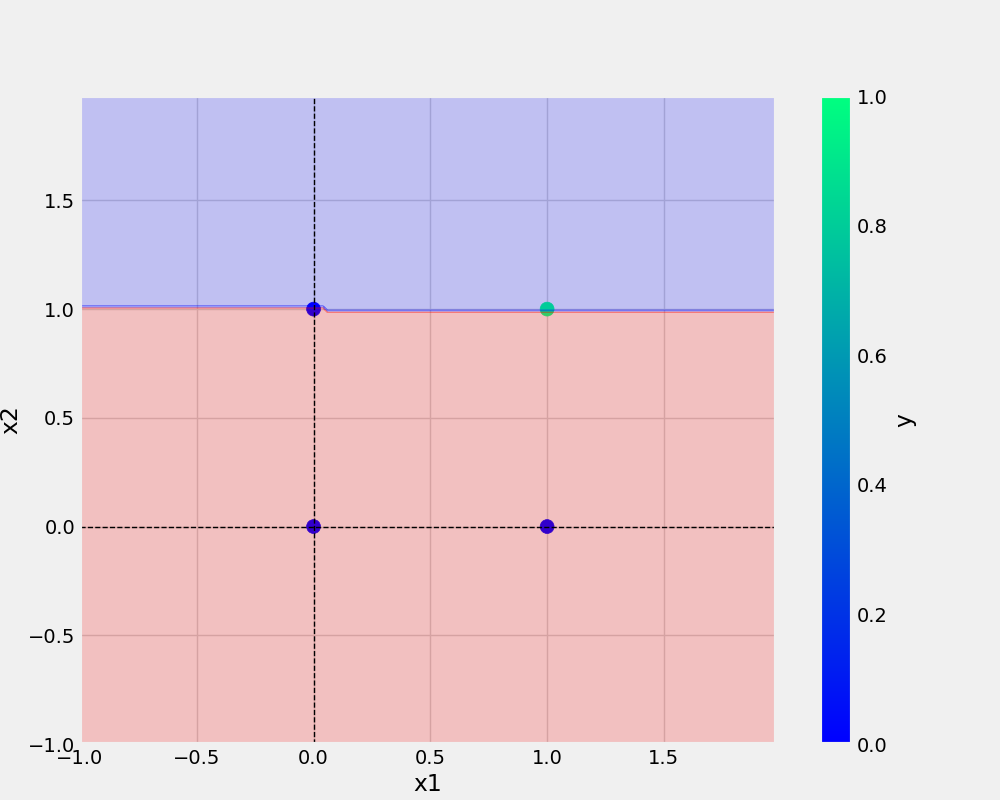
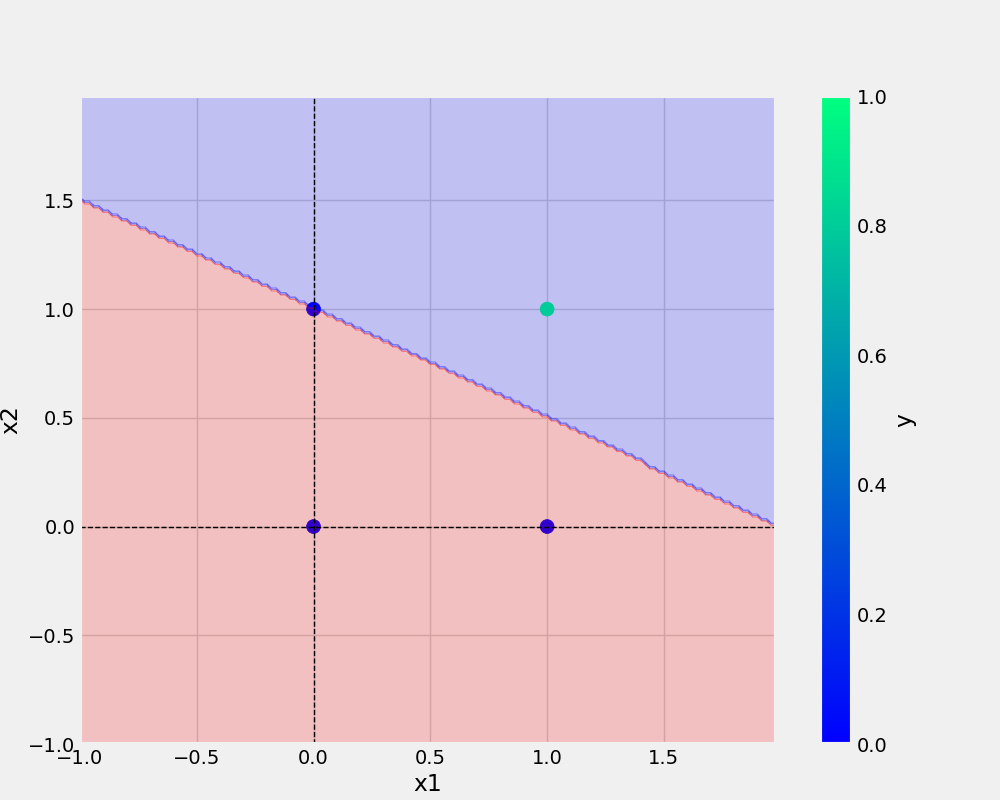
modularized code

Changed region(s): [[0.062, 0.25, 0.775, 0.6562]]

diff --git a/and.py b/and.py
@@ -3,22 +3,24 @@ from utils.all_utils import prepare_data, save_model, save_plot
 import pandas as pd
 import numpy as np
 
-AND = {
-    "x1": [0,0,1,1],
-    "x2": [0,1,0,1],
-    "y": [0,0,0,1]
-}
-df = pd.DataFrame(AND)
-print(df)
+def main(data, eta, epochs, filename, plotFileName):
+    df = pd.DataFrame(data)
+    print(df)
+    X, y = prepare_data(df)
+    model = Perceptron(eta=eta, epochs=epochs)
+    model.fit(X, y)
 
-X, y = prepare_data(df)
-ETA = 0.3
-EPOCHS = 10
+    _ = model.total_loss()
 
-model = Perceptron(eta=ETA, epochs=EPOCHS)
-model.fit(X, y)
+    save_model(model, filename=filename)
+    save_plot(df, plotFileName, model)
 
-_ = model.total_loss()
-
-save_model(model, filename="and.model")
-save_plot(df, "and.png", model)
+if __name__ == '__main__':
+    AND = {
+        "x1": [0,0,1,1],
+        "x2": [0,1,0,1],
+        "y": [0,0,0,1]
+    }
+    ETA = 0.3
+    EPOCHS = 10
+    main(data=AND, eta=ETA, epochs=EPOCHS, filename="and.model", plotFileName="and.png")

diff --git a/or.py b/or.py
@@ -1,0 +1,26 @@
+from utils.model import Perceptron
+from utils.all_utils import prepare_data, save_model, save_plot
+import pandas as pd
+import numpy as np
+
+def main(data, eta, epochs, filename, plotFileName):
+    df = pd.DataFrame(data)
+    print(df)
+    X, y = prepare_data(df)
+    model = Perceptron(eta=eta, epochs=epochs)
+    model.fit(X, y)
+
+    _ = model.total_loss()
+
+    save_model(model, filename=filename)
+    save_plot(df, plotFileName, model)
+
+if __name__ == '__main__':
+    OR = {
+        "x1": [0,0,1,1],
+        "x2": [0,1,0,1],
+        "y": [0,1,1,1]
+    }
+    ETA = 0.3
+    EPOCHS = 10
+    main(data=OR, eta=ETA, epochs=EPOCHS, filename="or.model", plotFileName="or.png")
